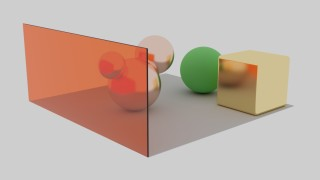
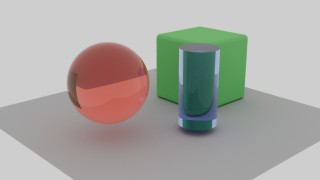
Set a better default scene

diff --git a/viewer/src/prefab/DefaultScene.ts b/viewer/src/prefab/DefaultScene.ts
@@ -5,14 +5,14 @@ export default {
       name: "[Prefab] Default Scene"
     },
     camera: {
-      position: [9.164212, 4.2127805, 10.355862],
-      direction: [-0.63988286, -0.2624869, -0.7222538],
+      position: [6.8313575, 3.796789, -6.400666],
+      direction: [-0.6979423, -0.3206336, 0.64036757],
       up_vector: [0, 1, 0],
       aperture: {
         type: "circle",
         radius: 0
       },
-      focal_distance: 1,
+      focal_distance: 0.001,
       focal_curvature: 0,
       field_of_view: 0.2
     },
@@ -24,37 +24,37 @@ export default {
       }
     },
     instance_list: {
-      "glass-pane": {
-        geometry: "pane",
-        material: "glass-pane",
-        parameters: {
-          x: 3.02,
-          y: 1.27,
-          z: 0
-        },
-        photon_receiver: true,
-        sample_explicit: true,
-        visible: true,
-        medium: {
-          extinction: [1e-9, 0.000002, 0.000004],
-          refractive_index: 1.65
-        },
-        parent: null
-      },
-      "glass-sphere": {
-        geometry: "two-spheres",
-        material: "copper",
+      "glass-cylinder": {
+        geometry: "cylinder",
+        material: "glass",
         parameters: {
           x: 1,
-          y: 0.81,
+          y: 0.955,
           z: 0
         },
         photon_receiver: false,
         sample_explicit: true,
         visible: true,
         medium: {
-          extinction: [0, 0, 0],
-          refractive_index: 1
+          extinction: [9e-8, 5e-8, 2e-9],
+          refractive_index: 1.45
+        },
+        parent: null
+      },
+      "glass-sphere": {
+        geometry: "sphere",
+        material: "glass",
+        parameters: {
+          x: 0,
+          y: 1.11,
+          z: -1.5
+        },
+        photon_receiver: false,
+        sample_explicit: true,
+        visible: true,
+        medium: {
+          extinction: [1e-8, 6e-8, 6e-8],
+          refractive_index: 1.65
         },
         parent: null
       },
@@ -71,32 +71,15 @@ export default {
         },
         parent: null
       },
-      "matte-sphere": {
-        geometry: "sphere",
+      "matte-cube": {
+        geometry: "cube",
         material: "matte",
         parameters: {
-          x: -2,
+          x: -0.3,
           y: 0.81,
-          z: 0
+          z: 1.5
         },
         photon_receiver: true,
-        sample_explicit: true,
-        visible: true,
-        medium: {
-          extinction: [0, 0, 0],
-          refractive_index: 1
-        },
-        parent: null
-      },
-      "test-sphere": {
-        geometry: "cube",
-        material: "gold",
-        parameters: {
-          x: -2,
-          y: 0.81,
-          z: 2.1
-        },
-        photon_receiver: false,
         sample_explicit: true,
         visible: true,
         medium: {
@@ -119,21 +102,18 @@ export default {
           }
         }
       },
-      ground: {
-        type: "cuboid",
-        dimensions: [3, 0.01, 3]
-      },
-      pane: {
+      cylinder: {
         type: "translate",
         translation: ["x", "y", "z"],
         child: {
-          type: "round",
-          radius: 0.02,
-          child: {
-            type: "cuboid",
-            dimensions: [0, 1.25, 3]
-          }
+          type: "cylinder",
+          height: 0.799,
+          radius: 0.4
         }
+      },
+      ground: {
+        type: "cuboid",
+        dimensions: [3, 0.01, 3]
       },
       sphere: {
         type: "translate",
@@ -142,51 +122,12 @@ export default {
           type: "sphere",
           radius: 0.799
         }
-      },
-      "two-spheres": {
-        type: "translate",
-        translation: ["x", "y", "z"],
-        child: {
-          type: "union",
-          children: [
-            {
-              type: "sphere",
-              radius: 0.799
-            },
-            {
-              type: "translate",
-              translation: [0.8, 0.7, 0],
-              child: {
-                type: "sphere",
-                radius: 0.4
-              }
-            },
-            {
-              type: "translate",
-              translation: [-0.8, 0.8, 0],
-              child: {
-                type: "sphere",
-                radius: 0.6
-              }
-            }
-          ]
-        }
       }
     },
     material_list: {
-      copper: {
-        type: "phong",
-        albedo: [0.955, 0.637, 0.538],
-        shininess: 150
-      },
-      "glass-pane": {
+      glass: {
         type: "dielectric",
         base_color: [1, 1, 1]
-      },
-      gold: {
-        type: "phong",
-        albedo: [1, 0.766, 0.336],
-        shininess: 1200
       },
       lambertian: {
         type: "lambertian",
@@ -212,13 +153,13 @@ export default {
     aperture: null,
     integrator: {
       hash_table_bits: 18,
-      photons_per_pass: 2000000,
+      photons_per_pass: 100000,
       photon_rate: 0.5,
-      max_search_radius: 0.1,
+      max_search_radius: 0.05,
       min_search_radius: 0.005,
       alpha: 0.7,
-      max_scatter_bounces: 10,
-      max_gather_bounces: 9,
+      max_scatter_bounces: 3,
+      max_gather_bounces: 5,
       geometry_precision: 0.001,
       geometry_pushback: 5
     }
